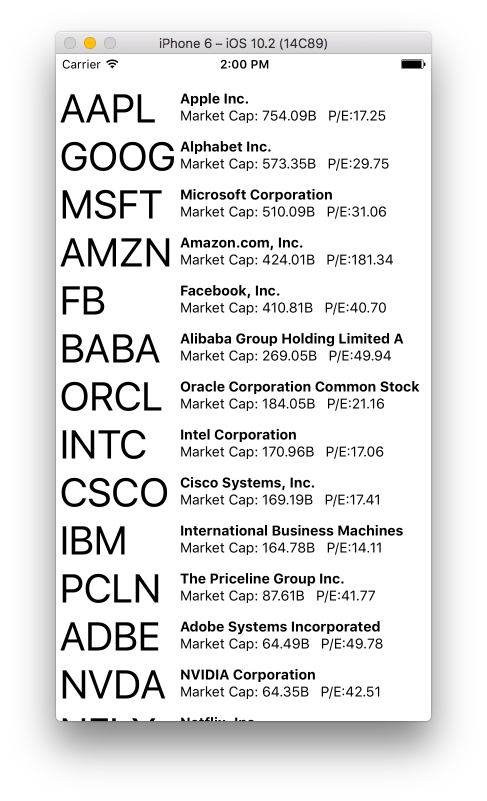
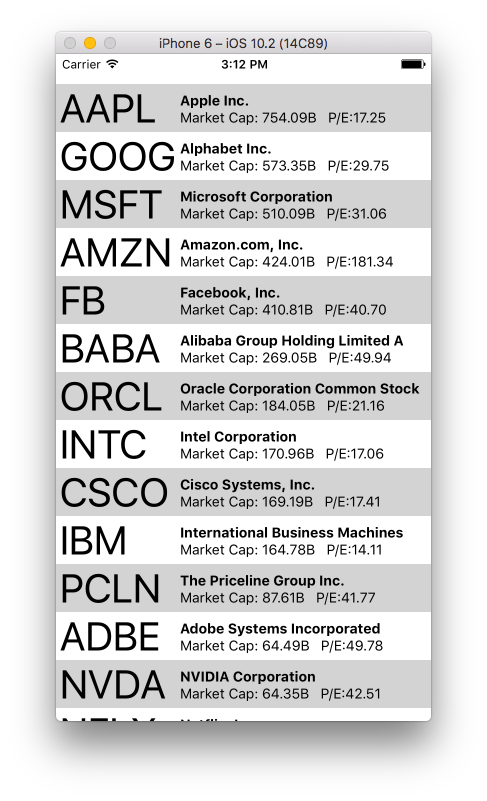
Update

diff --git a/index.android.js b/index.android.js
@@ -1,7 +1,5 @@
 import React, {Component} from 'react'
-import {AppRegistry, RefreshControl, ScrollView, View, Text} 
-from 'react-native'
-
+import {AppRegistry, RefreshControl, ScrollView, View, Text} from 'react-native'
 class App extends Component {
 	constructor() {
 		super()
@@ -34,13 +32,15 @@ class App extends Component {
 		return fetch(url).then( r => r.json() )
 	}
 	render() {
-		let v = {paddingTop:30, paddingLeft:4}
-		var s = {fontSize:40, width:120, textAlign:'left'}
-		var d = {marginTop:6}
+		let v = {paddingTop:30}
+		var s = {fontSize:40, width:120, marginLeft:4}
+		var d = {marginTop:8}
 		var b = {fontWeight:'bold'}
+		var g = {backgroundColor:'lightgray'}, h = {backgroundColor:'white'}
 		let item = [ ]
 		for (let c of this.data) {
-			item.push(<View key={item.length} flexDirection='row'>
+			item.push(<View key={item.length} flexDirection='row'
+				style={item.length % 2 == 0 ? g : h }>
 				<Text style={s}>{c.symbol.toUpperCase()}</Text>
 				<View style={d} flexDirection='column'>
 					<Text style={b}>{c.Name}</Text>

diff --git a/index.ios.js b/index.ios.js
@@ -1,7 +1,5 @@
 import React, {Component} from 'react'
-import {AppRegistry, RefreshControl, ScrollView, View, Text} 
-from 'react-native'
-
+import {AppRegistry, RefreshControl, ScrollView, View, Text} from 'react-native'
 class App extends Component {
 	constructor() {
 		super()
@@ -34,13 +32,15 @@ class App extends Component {
 		return fetch(url).then( r => r.json() )
 	}
 	render() {
-		let v = {paddingTop:30, paddingLeft:4}
-		var s = {fontSize:40, width:120, textAlign:'left'}
-		var d = {marginTop:6}
+		let v = {paddingTop:30}
+		var s = {fontSize:40, width:120, marginLeft:4}
+		var d = {marginTop:8}
 		var b = {fontWeight:'bold'}
+		var g = {backgroundColor:'lightgray'}, h = {backgroundColor:'white'}
 		let item = [ ]
 		for (let c of this.data) {
-			item.push(<View key={item.length} flexDirection='row'>
+			item.push(<View key={item.length} flexDirection='row'
+				style={item.length % 2 == 0 ? g : h }>
 				<Text style={s}>{c.symbol.toUpperCase()}</Text>
 				<View style={d} flexDirection='column'>
 					<Text style={b}>{c.Name}</Text>
